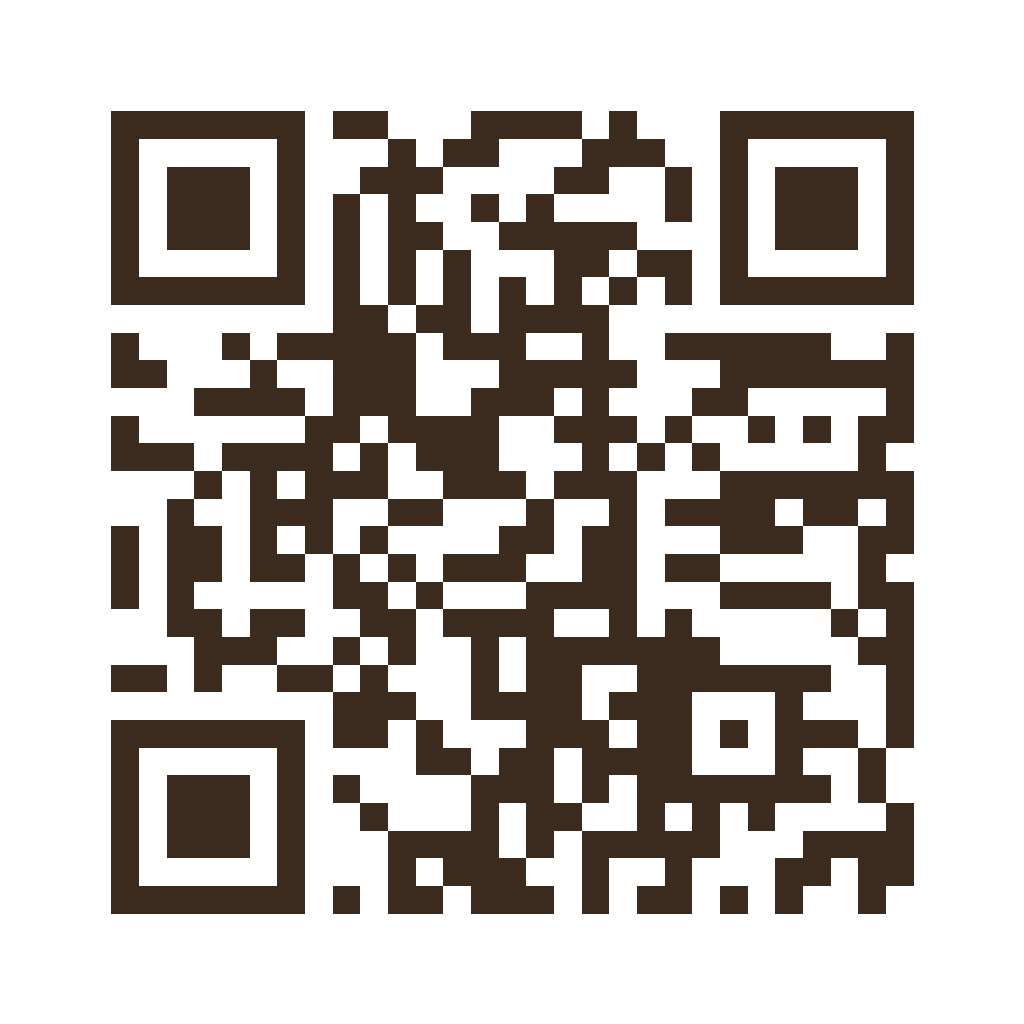
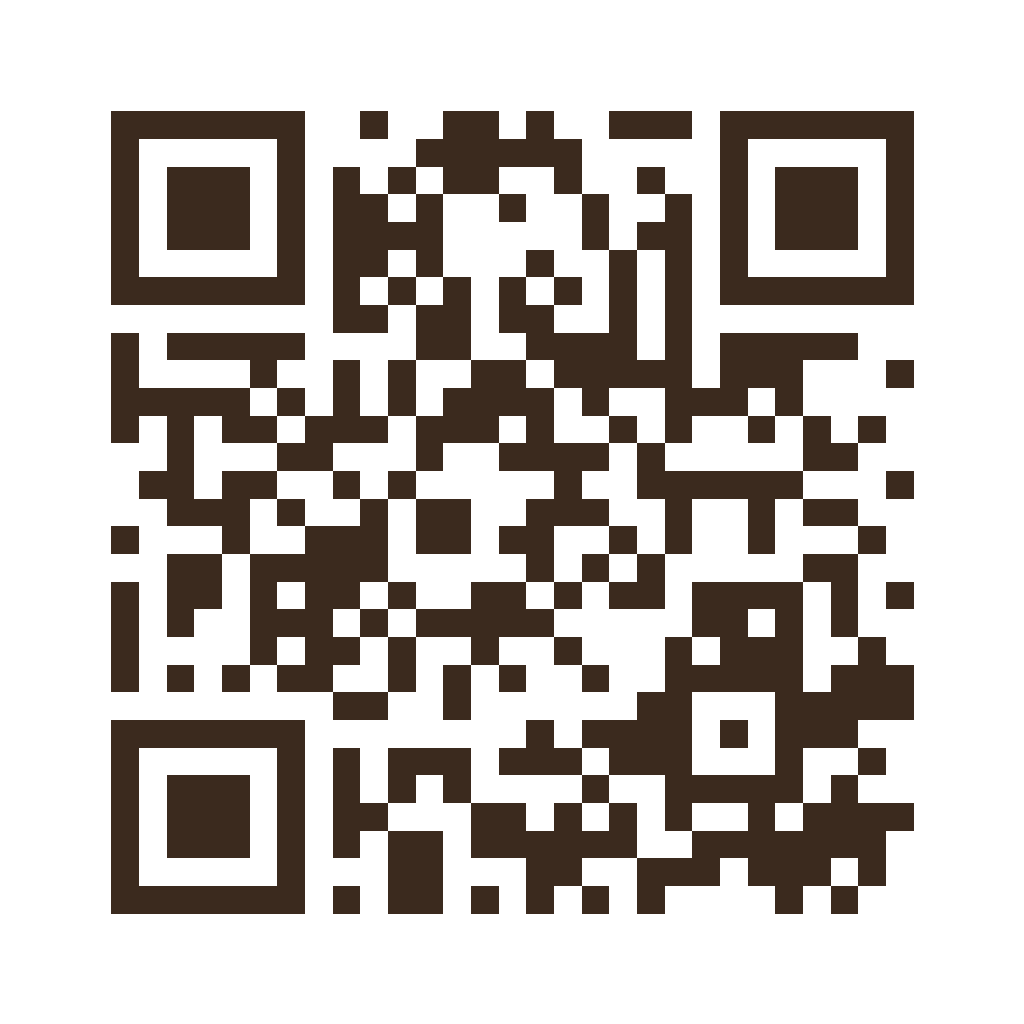
QR kod Vercel adresine çevrildi; Strix taraması atlandı
- SITE_URL ve "qr" script'i https://atolyekart-murex.vercel.app/ (formlar burada açık)
- qr/atolyekart-qr.png yeniden üretildi
- Güvenlik checklist'i: Strix maddesi gerekçesiyle "atlandı"

Changed region(s): [[0.0938, 0.0938, 0.9062, 0.9062], [0.5938, 0.75, 0.7812, 0.9062]]

diff --git a/src/data/site.js b/src/data/site.js
@@ -1,3 +1,3 @@
-// Sitenin yayındaki adresi (GitHub Pages). QR kod bu adresi açar.
+// Sitenin yayındaki adresi (Vercel). QR kod bu adresi açar.
 // Değişirse package.json'daki "qr" script'ini de güncelle ve `npm run qr` çalıştır.
-export const SITE_URL = 'https://suhacann.github.io/AtolyeCard/'
+export const SITE_URL = 'https://atolyekart-murex.vercel.app/'

diff --git a/docs/guvenlik-checklist.md b/docs/guvenlik-checklist.md
@@ -12,7 +12,7 @@ Canlı: https://atolyekart-murex.vercel.app · Kontrol tarihi: Ekim 2026
 | 6 | Form girdileri sanitize ediliyor | ✅ | Sunucu `server/sanitizePayload.js`: ürün adı/stok sunucu verisinden, ad ≤80, telefon deseni, e-posta deseni ≤254, adet tam sayı 1–99; kontrol/yön karakterleri silinir; fazladan alanlar atılır; payload yeniden kurulur. Tarayıcıda aynı kurallar `pattern`/`maxLength`/`max`. React çıktıyı zaten kaçışlar. Ek: sipariş JWT ile korunur, `/api/*` IP başına 10 istek/dk |
 | 7 | KVKK rıza checkbox'ı + Privacy Policy yayında | ✅ (taslak) | İki formda zorunlu rıza kutusu; payload'da `consent: true`, sunucu zorunlu tutar. Aydınlatma metni `/#gizlilik`. Veri sorumlusu, bildirim hizmeti ve saklama süresi yer tutucu olarak duruyor; gerçek kullanımdan önce doldurulmalı ve hukukçuya kontrol ettirilmeli (KVKK m. 9, 2024 değişikliği) |
 | 8a | Claude denetimi: kritik bulgu yok | ✅ | `standart-denetcisi` güvenlik taraması: kritik/yüksek bulgu yok. Orta/düşük bulgulardan düzeltilenler: token uç noktasına rate limit, genişletilmiş karakter temizliği, açık event kontrolü, aralıklı sayaç temizliği, loglarda host sızıntısı |
-| 8b | Strix taraması | ⏳ | Henüz yapılmadı (Docker + LLM API anahtarı gerekli) |
+| 8b | Strix taraması | ➖ Atlandı | Docker ve ücretli LLM API anahtarı gerektirdiği için bu turda yapılmadı; yerine 8a'daki Claude güvenlik denetimi yapıldı |
 
 ## Bilinen sınırlar (kabul edildi)
 

diff --git a/CLAUDE.md b/CLAUDE.md
@@ -53,4 +53,5 @@ El yapımı ahşap ürünler satan küçük bir atölyenin web sitesi. Kursun an
 - Hafta 2.3: Webhook secret sunucuya taşındı (`/api/webhook`), dev/prod env ayrı, production değeri Vercel'de; canlıda test edildi (tamam)
 - Hafta 2.4: Sipariş formuna JWT (`/api/order-token`) + `/api/webhook`'a rate limit (10/dk/IP); yerelde ve canlıda test edildi (tamam)
 - Hafta 2.5: KVKK açık rıza kutusu (iki formda; payload'da `consent: true`, sunucu zorunlu tutar) + `#gizlilik` aydınlatma metni taslağı. Yer tutucular (veri sorumlusu, bildirim hizmeti, saklama süresi) doldurulmadı
-- Hafta 2.6: Güvenlik checklist'i `docs/guvenlik-checklist.md` — vercel.json güvenlik başlıkları, sunucuda girdi temizleme, npm audit temiz (vercel CLI çıkarıldı), denetim bulguları düzeltildi. Strix taraması bekliyor
+- Hafta 2.6: Güvenlik checklist'i `docs/guvenlik-checklist.md` — vercel.json güvenlik başlıkları, sunucuda girdi temizleme, npm audit temiz (vercel CLI çıkarıldı), denetim bulguları düzeltildi. Strix taraması atlandı (Docker + LLM anahtarı gerektiriyor; kullanıcı kararı)
+- QR kod Vercel adresine çevrildi (`SITE_URL` + `qr/atolyekart-qr.png`)
